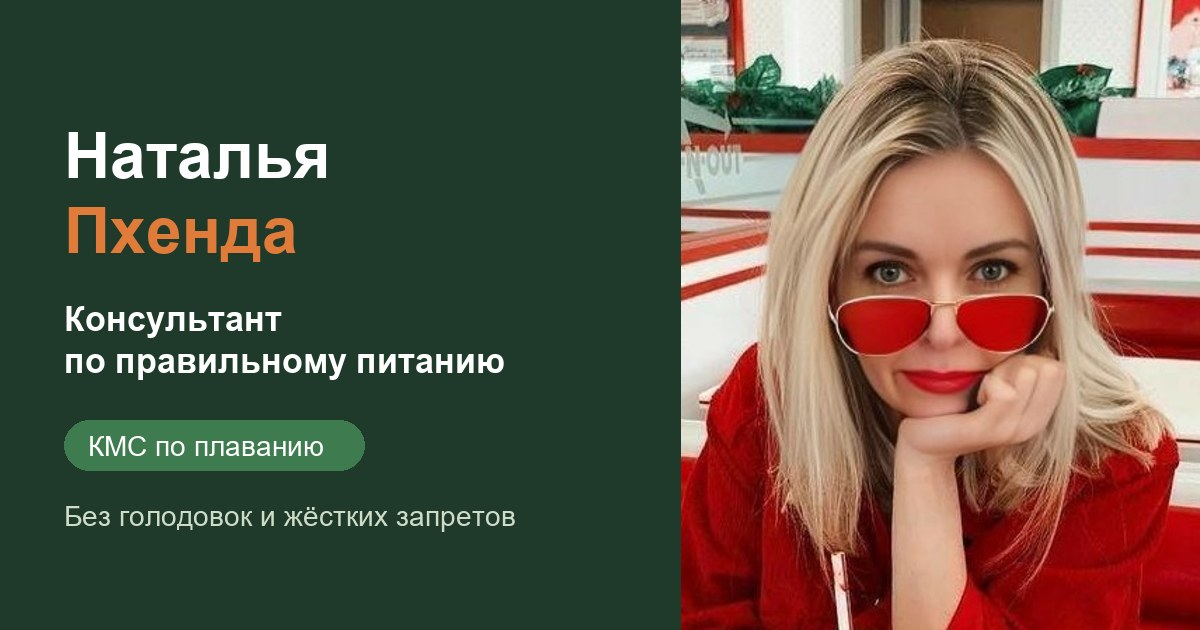
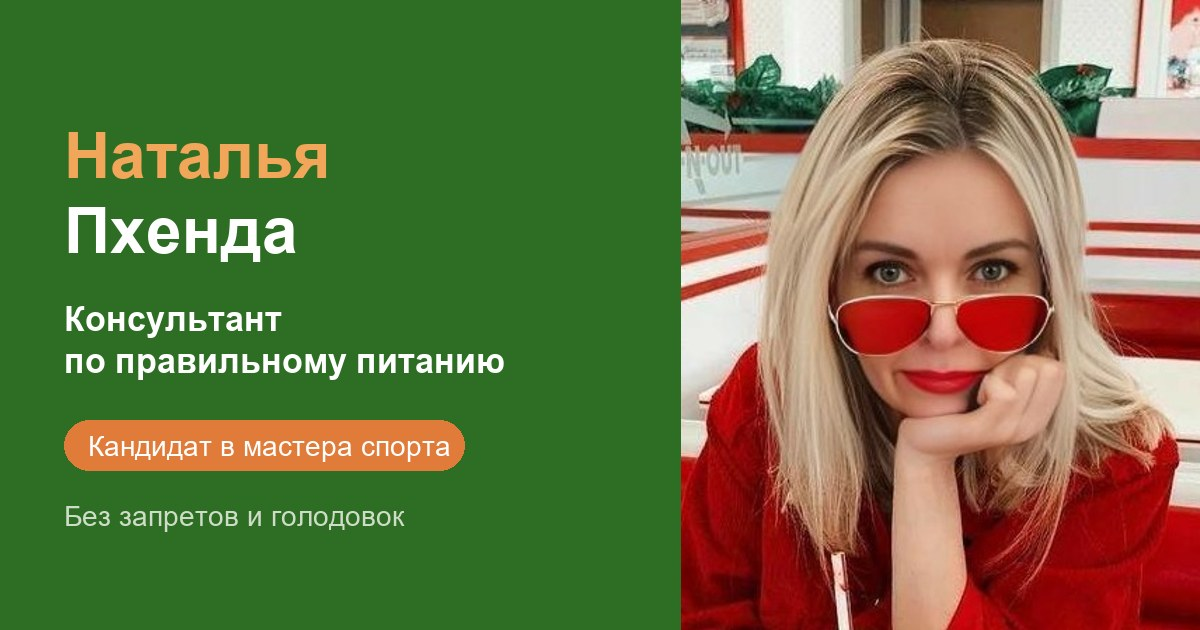
Наталья: правки в стиле визиток, яблоко, тексты

diff --git a/natalya-pitanie/index.html b/natalya-pitanie/index.html
@@ -4,13 +4,13 @@
 <meta charset="utf-8">
 <meta name="viewport" content="width=device-width, initial-scale=1">
 <title>Наталья Пхенда - консультант по правильному питанию</title>
-<meta name="description" content="Наталья Пхенда - консультант по правильному питанию. КМС по плаванию, экономическое образование. Консультации онлайн.">
+<meta name="description" content="Наталья Пхенда - консультант по правильному питанию. Кандидат в мастера спорта по плаванию, экономическое образование. Консультации онлайн.">
 <link rel="icon" href="img/favicon.svg" type="image/svg+xml">
 <link rel="icon" href="img/favicon-32.png" sizes="32x32" type="image/png">
 <link rel="apple-touch-icon" href="img/apple-touch-icon.png">
 <meta property="og:type" content="website">
 <meta property="og:title" content="Наталья Пхенда - консультант по правильному питанию">
-<meta property="og:description" content="КМС по плаванию, экономическое образование. Питание без голодовок и жёстких запретов. Консультации онлайн.">
+<meta property="og:description" content="Кандидат в мастера спорта по плаванию, экономическое образование. Питание без запретов и голодовок. Консультации онлайн.">
 <meta property="og:image" content="https://maryza2603.github.io/moy-proekt/natalya-pitanie/img/og.jpg">
 <meta property="og:image:width" content="1200">
 <meta property="og:image:height" content="630">
@@ -22,7 +22,8 @@
 :root{
   --tile:#F5F6EE;
   --white:#FFFFFF;
-  --water:#3E7B4F;
+  --water:#3B8B2E;
+  --leaf:#7DB94A;
   --deep:#1F3A2B;
   --red:#E07B39;
   --line:#DDE3D2;
@@ -41,8 +42,9 @@ h1,h2,h3{font-family:"Unbounded",sans-serif;line-height:1.1;letter-spacing:-.01e
 /* шапка */
 header{position:sticky;top:0;z-index:10;background:rgba(245,246,238,.92);backdrop-filter:blur(8px);border-bottom:1px solid var(--line)}
 .nav{display:flex;align-items:center;justify-content:space-between;height:68px;gap:16px}
-.logo{font-family:"Unbounded";font-weight:700;font-size:17px;text-decoration:none}
-.logo b{color:var(--red)}
+.logo{font-family:"Unbounded";font-weight:700;font-size:17px;text-decoration:none;display:flex;align-items:center;gap:8px;color:var(--red)}
+.logo b{color:var(--water)}
+.apple{width:28px;height:28px;flex:none}
 .nav ul{display:flex;gap:28px;list-style:none;font-size:16px}
 .nav ul a{text-decoration:none;color:var(--muted)}
 .nav ul a:hover{color:var(--deep)}
@@ -61,9 +63,11 @@ header{position:sticky;top:0;z-index:10;background:rgba(245,246,238,.92);backdro
 .nav .btn{padding:10px 20px;font-size:15px}
 
 /* первый экран */
+.hero-bg{background:radial-gradient(ellipse 70% 90% at 100% 40%,rgba(125,185,74,.35),transparent 70%),linear-gradient(180deg,#F5F6EE,#EAF2DD)}
 .hero{padding:64px 0 72px;display:grid;grid-template-columns:1.15fr .85fr;gap:56px;align-items:center}
 .hero h1{font-size:clamp(38px,5.4vw,68px);font-weight:800}
-.hero h1 span{display:block;color:var(--water)}
+.hero h1 em{font-style:normal;color:var(--red)}
+.hero h1 span{display:block}
 .hero .lead{font-size:21px;max-width:30ch;margin:28px 0 36px;color:var(--muted)}
 .hero .actions{display:flex;flex-wrap:wrap;gap:14px}
 .photo{position:relative}
@@ -78,7 +82,7 @@ h2{font-size:clamp(30px,4vw,48px);font-weight:700;max-width:20ch;margin-bottom:2
 .sub{color:var(--muted);max-width:56ch;margin-bottom:48px}
 .pillars{display:grid;grid-template-columns:1fr 1fr;gap:28px}
 .pillar{background:var(--white);border-radius:28px;padding:40px;border:1px solid var(--line)}
-.pillar.swim{background:linear-gradient(160deg,rgba(31,58,43,.88),rgba(62,123,79,.55)),url(img/pool.jpg) center/cover;color:#fff;border:0;position:relative;overflow:hidden}
+.pillar.swim{background:linear-gradient(160deg,rgba(46,110,36,.9),rgba(125,185,74,.6)),url(img/pool.jpg) center/cover;color:#fff;border:0;position:relative;overflow:hidden}
 .pillar.swim::after{content:"";position:absolute;inset:auto 0 0 0;height:90px;background:repeating-linear-gradient(170deg,rgba(255,255,255,.08) 0 10px,transparent 10px 26px)}
 .pillar .big{font-family:"Unbounded";font-weight:800;font-size:64px;line-height:1;margin-bottom:18px}
 .pillar.econ .big{color:var(--red)}
@@ -209,7 +213,7 @@ footer{padding:40px 0 56px;color:var(--muted);font-size:15px;text-align:center}
 
 <header>
   <div class="wrap nav">
-    <a class="logo" href="#top">Наталья <b>Пхенда</b></a>
+    <a class="logo" href="#top"><svg class="apple" viewBox="0 0 32 32" aria-hidden="true"><path d="M16 9c-2-1.6-4.6-2-7-1C5 9.6 4 14 5 18c1.2 5 4.6 10 8 10 1.3 0 2-.6 3-.6s1.7.6 3 .6c3.4 0 6.8-5 8-10 1-4 0-8.4-4-10-2.4-1-5-.6-7 1z" fill="#E0322B"/><path d="M15.6 9.5c-.2-2.6.6-5 2.2-6.6" stroke="#7A4A22" stroke-width="1.8" fill="none" stroke-linecap="round"/><path d="M17.5 6.5c1.5-3 4.5-4 7.5-3.5-1 3-4 4.6-7.5 3.5z" fill="#5FA83A"/><ellipse cx="10.5" cy="13.5" rx="2" ry="3" fill="#fff" opacity=".35"/></svg><span>Наталья <b>Пхенда</b></span></a>
     <ul>
       <li><a href="#about">Обо мне</a></li>
       <li><a href="#results">Результаты</a></li>
@@ -223,10 +227,10 @@ footer{padding:40px 0 56px;color:var(--muted);font-size:15px;text-align:center}
 </header>
 
 <main id="top">
-  <div class="wrap hero">
+  <div class="hero-bg"><div class="wrap hero">
     <div>
-      <h1>Питание, которое работает <span>на ваш результат</span></h1>
-      <p class="lead">Консультант по правильному питанию. Помогаю снизить или набрать вес без голодовок и срывов.</p>
+      <h1>Питание, <em>которое работает</em> <span>на ваш результат</span></h1>
+      <p class="lead">Консультант по правильному питанию. Помогаю вернуть массу тела в норму.</p>
       <div class="actions">
         <a class="btn" href="#contact">Записаться на консультацию</a>
         <a class="btn btn-ghost" href="#services">Посмотреть цены</a>
@@ -234,9 +238,8 @@ footer{padding:40px 0 56px;color:var(--muted);font-size:15px;text-align:center}
     </div>
     <div class="photo">
       <img src="img/natalya.jpg" alt="Наталья Пхенда, консультант по правильному питанию" width="480" height="450">
-      <div class="medal"><strong>КМС</strong><small>кандидат в мастера спорта по плаванию</small></div>
     </div>
-  </div>
+  </div></div>
 
   <section id="about">
     <div class="wrap">
@@ -244,7 +247,7 @@ footer{padding:40px 0 56px;color:var(--muted);font-size:15px;text-align:center}
       <p class="sub">Я знаю питание не из учебника: годы тренировок научили меня, как еда влияет на силу, выносливость и восстановление. А экономическое образование - всё считать и планировать.</p>
       <div class="pillars">
         <div class="pillar swim">
-          <div class="big">КМС</div>
+          <div class="big">Спорт</div>
           <h3>Кандидат в мастера спорта по плаванию</h3>
           <p>Режим, дисциплина и питание под нагрузку - это моя жизнь с детства. Знаю, как держать форму и не выгорать, и передаю это вам простыми шагами.</p>
         </div>
@@ -261,7 +264,7 @@ footer{padding:40px 0 56px;color:var(--muted);font-size:15px;text-align:center}
 
   <section id="choice">
     <div class="wrap">
-      <h2>Без жёстких запретов и голодовок</h2>
+      <h2>Без запретов и голодовок</h2>
       <p class="sub">Вы приходите со своими привычками, и мы ничего не ломаем в первый же день. Меняем питание постепенно, шаг за шагом.</p>
       <figure class="choice-img"><img src="img/choice.jpg" alt="Привычные магазинные продукты и полезные продукты, между ними пустая корзина" loading="lazy" width="1600" height="900"></figure>
       <div class="choice-points">
